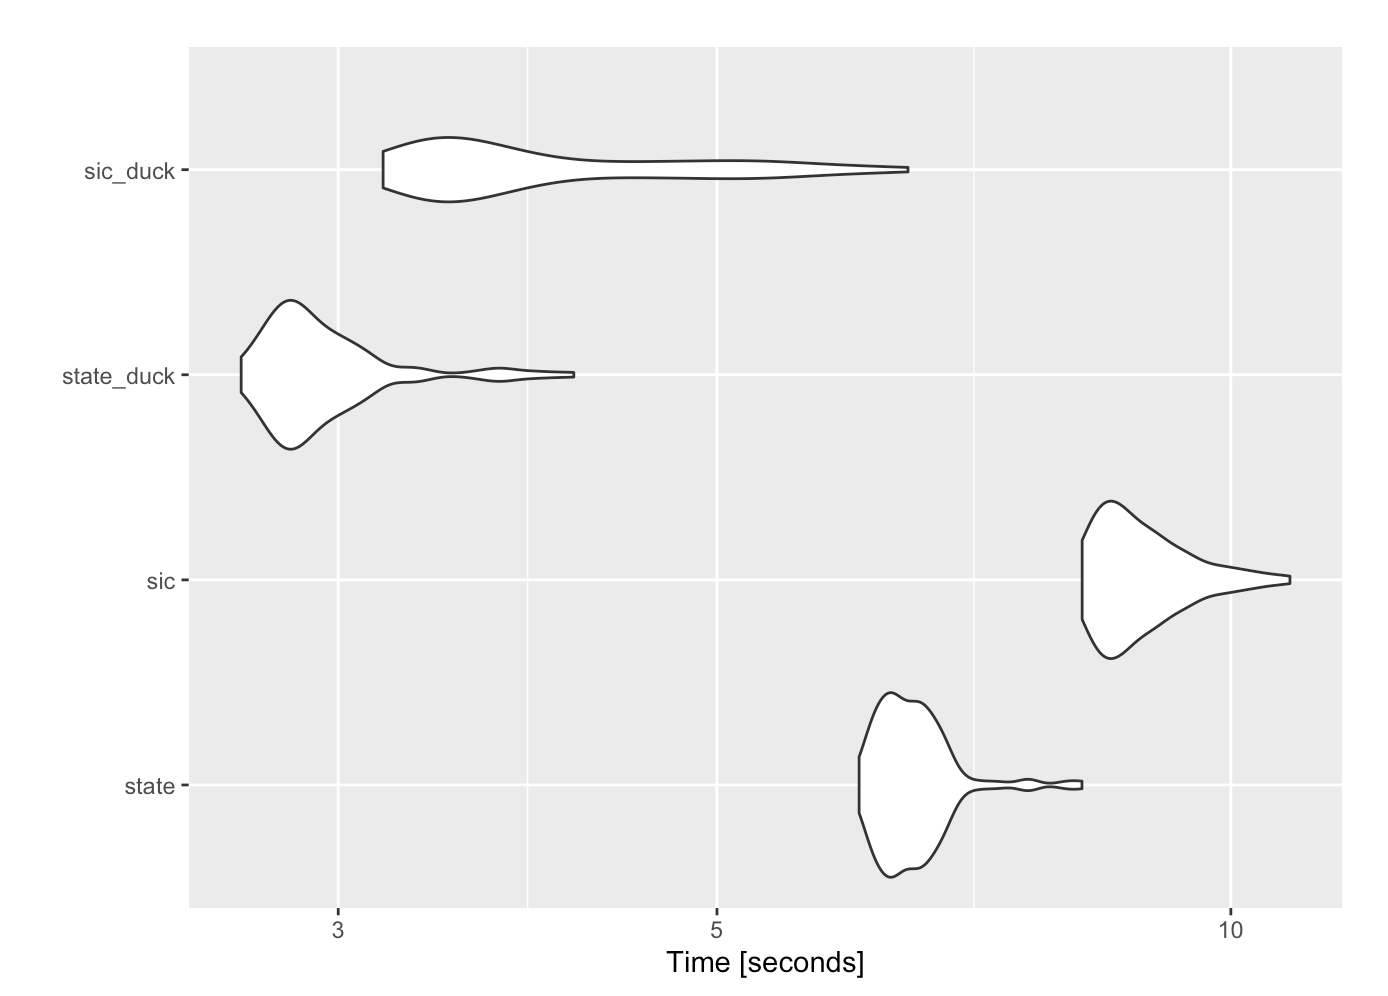
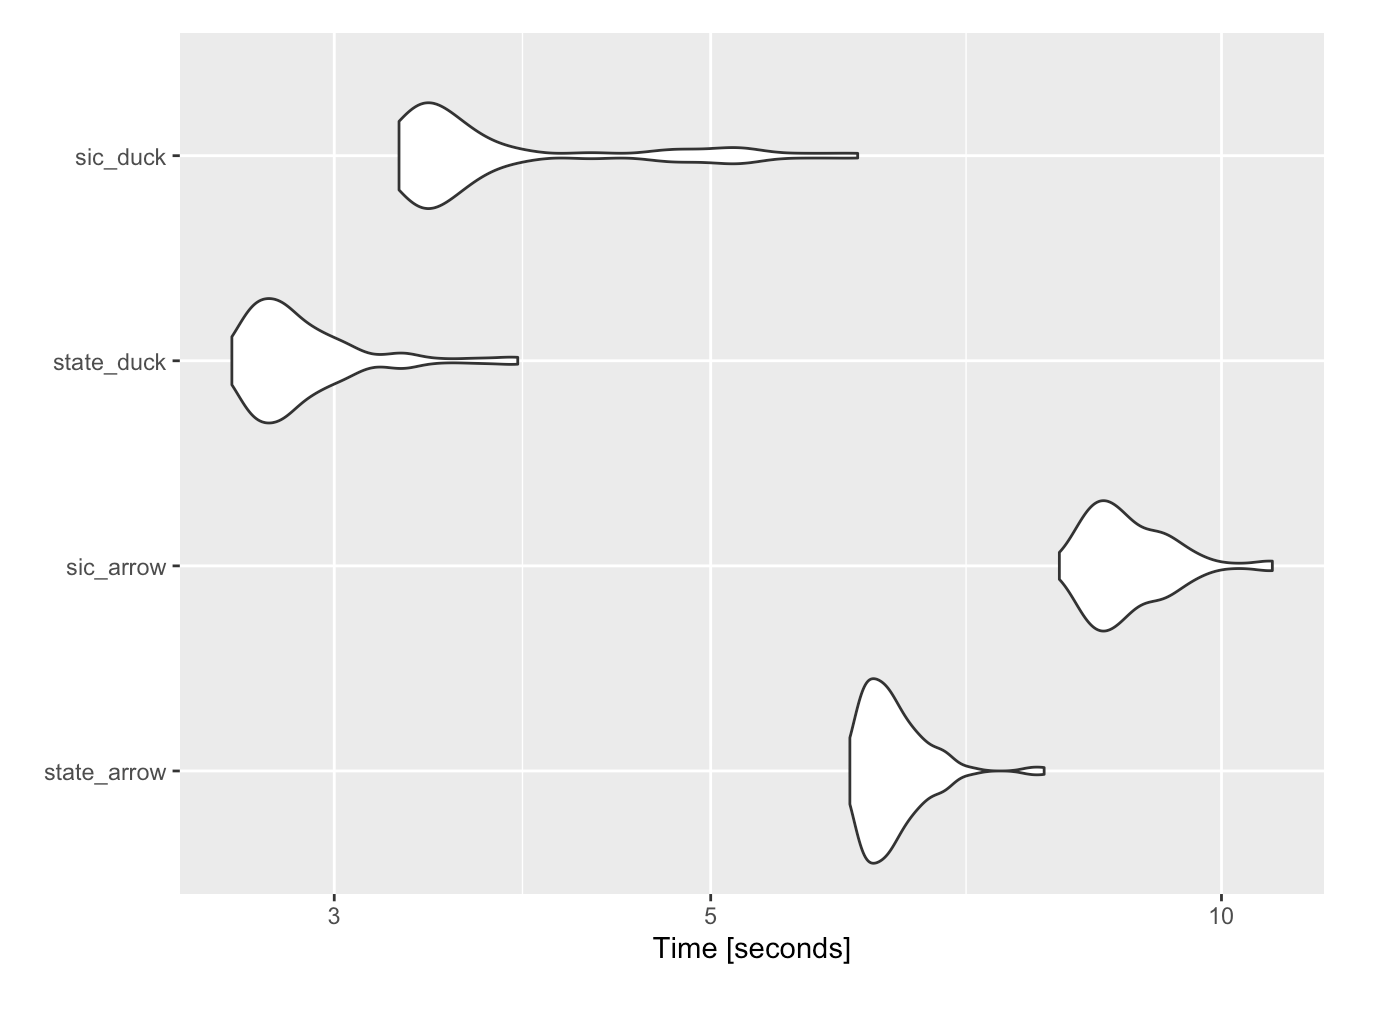
update image

diff --git a/content/post/2022-11-27-handling-larger-than-memory-dataset-with-arrow-table/index.html b/content/post/2022-11-27-handling-larger-than-memory-dataset-with-arrow-table/index.html
@@ -1,5 +1,5 @@
 ---
-title: Handling larger than memory data with `{arrow}` and `{duckdb}` 
+title: Handling larger than memory data with {arrow} and {duckdb}
 author: David Lucey
 date: "2022-11-27"
 slug: setting-up-and-exploring-a-larger-than-memory-arrow-table
@@ -138,7 +138,7 @@ cleaned_arrow</code></pre>
 ## $NAICS_NUMBER &lt;int64&gt;
 ## $INDUSTRY &lt;string&gt;</code></pre>
 <pre class="r"><code>toc()</code></pre>
-<pre><code>## 49.068 sec elapsed</code></pre>
+<pre><code>## 46.476 sec elapsed</code></pre>
 <pre class="r"><code>lobstr::obj_size(cleaned_arrow)</code></pre>
 <pre><code>## 283.62 kB</code></pre>
 </div>
@@ -288,7 +288,7 @@ test_agg(full_data, agg_var=STATE)</code></pre>
 ##  9 NJ     730344
 ## 10 VA     617868</code></pre>
 <pre class="r"><code>toc()</code></pre>
-<pre><code>## 10.11 sec elapsed</code></pre>
+<pre><code>## 9.507 sec elapsed</code></pre>
 <p>So here, we benchmark four queries, aggregating on STATE and SIC_DESCRIPTION with and without duckdb. The big surprise here was how big an impact <code>{duckdb}</code> had with so little effort, reducing query time by 55-60%. It also seemed to make the query run with much less variability, but will leave that to the experts to explain.</p>
 <details>
 <summary>
@@ -296,9 +296,9 @@ See code
 </summary>
 <pre class="r"><code># Microbenchmark on 100 iterations
 mbm &lt;- microbenchmark::microbenchmark(
-  &quot;state&quot; = 
+  &quot;state_arrow&quot; = 
     test_agg(full_data, agg_var = STATE),
-  &quot;sic&quot; = 
+  &quot;sic_arrow&quot; = 
     test_agg(full_data, agg_var = SIC_DESCRIPTION),
   &quot;state_duck&quot; = 
     test_agg(full_data, agg_var = STATE, duck=TRUE),
@@ -307,11 +307,11 @@ mbm &lt;- microbenchmark::microbenchmark(
 )
 mbm</code></pre>
 <pre><code>## Unit: seconds
-##        expr      min       lq     mean   median       uq       max neval  cld
-##       state 6.056958 6.286558 6.523313 6.466869 6.644930  8.180928   100   c 
-##         sic 8.182955 8.462961 8.887354 8.731248 9.126058 10.829854   100    d
-##  state_duck 2.631874 2.780492 2.952274 2.868356 3.022069  4.122147   100 a   
-##    sic_duck 3.187233 3.409475 4.021427 3.623329 4.506526  6.469794   100  b</code></pre>
+##         expr      min       lq     mean   median       uq       max neval  cld
+##  state_arrow 6.039366 6.207929 6.411865 6.332908 6.527128  7.861368   100   c 
+##    sic_arrow 8.025354 8.423692 8.827753 8.684798 9.171409 10.714919   100    d
+##   state_duck 2.610817 2.703065 2.875179 2.800053 2.930623  3.848137   100 a   
+##     sic_duck 3.275613 3.376994 3.812775 3.474520 3.824492  6.103654   100  b</code></pre>
 </details>
 <pre><code>## Coordinate system already present. Adding new coordinate system, which will
 ## replace the existing one.</code></pre>
